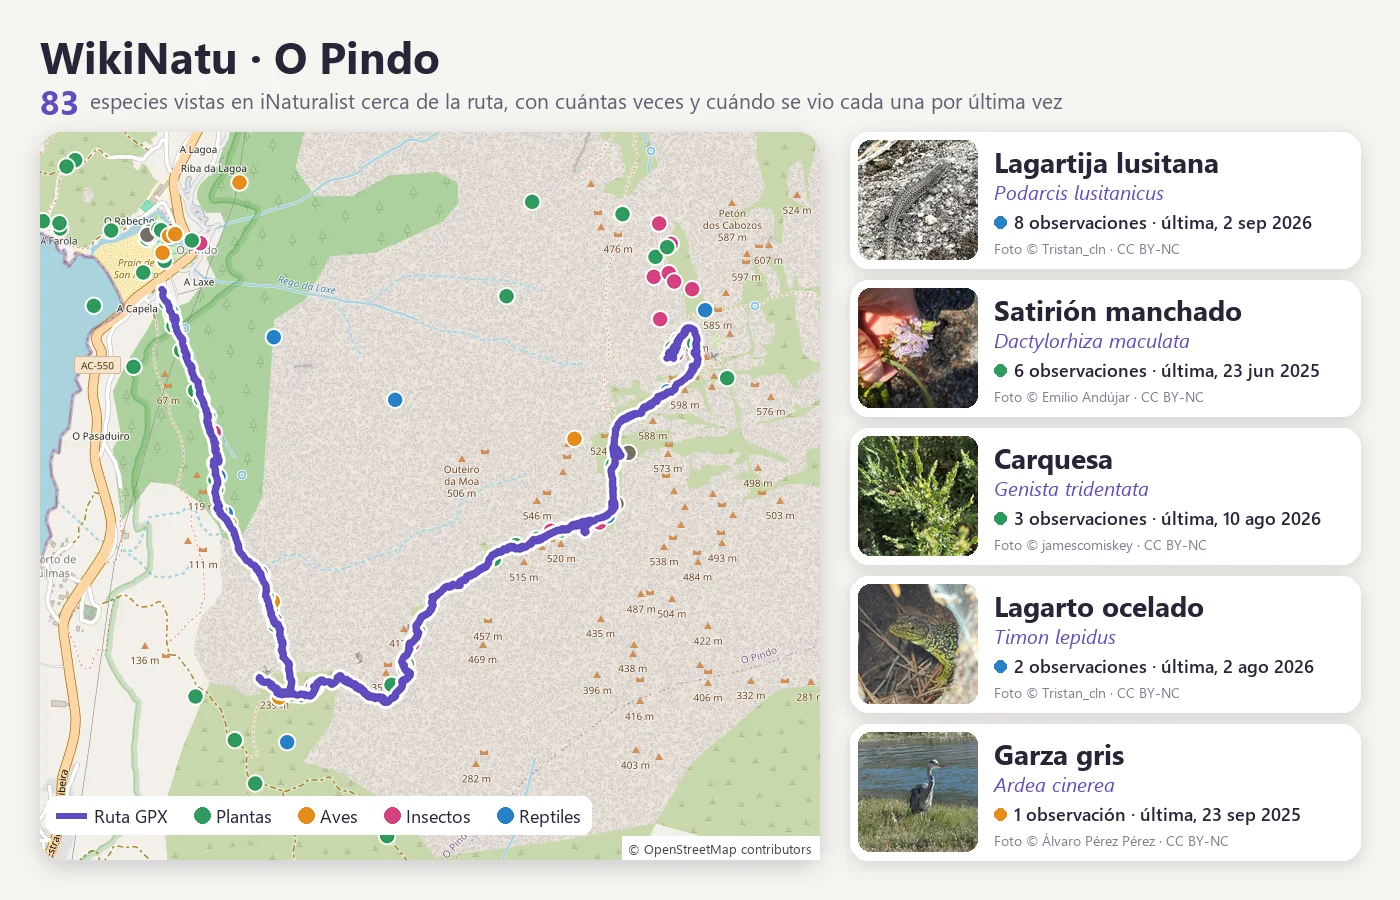
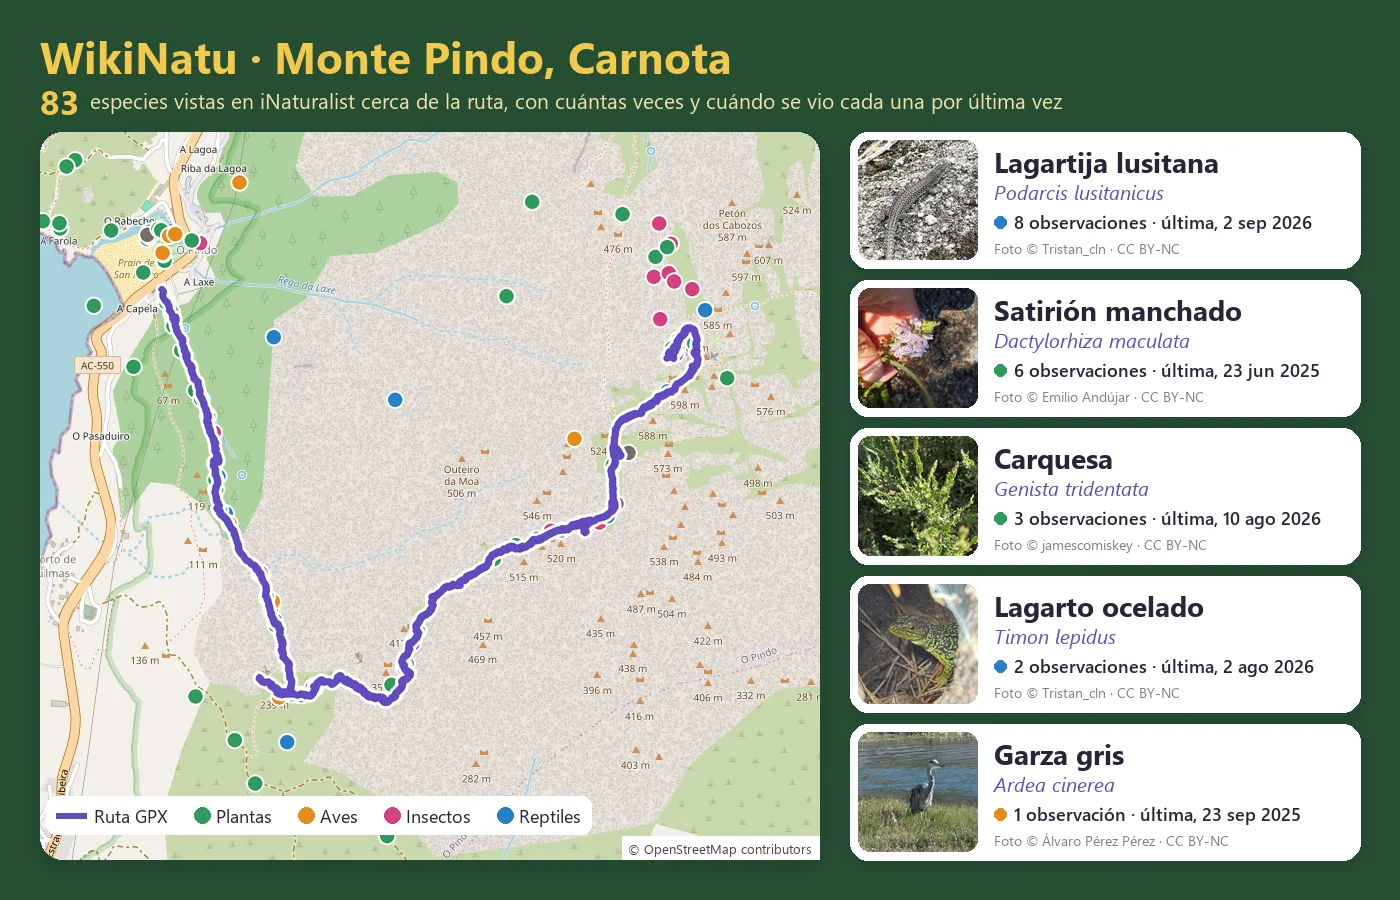
«Sobre mí»: títulos y frases de mapas y de la app de especies; WikiNatu en verde
Sanidad digital, «Primeros pasos en el mapa», mapas de lo que le rodeaba y de recuerdos
de viajes, la app sin nombre en el texto. Figura con fondo verde, letras amarillas y
Monte Pindo, Carnota.

Changed region(s): [[0.0, 0.0, 1.0, 1.0]]

diff --git a/src/i18n/ui.ts b/src/i18n/ui.ts
@@ -48,9 +48,9 @@ export const ui = {
       camino: [
         { etiqueta: 'Me presento', texto: 'Soy Miguel [[retrato]]. Trabajo en la vigilancia y supervisión de modelos de inteligencia artificial, desde Santiago de Compostela.' },
         { etiqueta: 'Entre la montaña y el ordenador', texto: 'Mis intereses siempre han estado muy ligados a la naturaleza, y siempre he disfrutado aprendiendo sobre ella [[mariposa]]. Eso me llevó a estudiar Biología, y fue ahí donde de verdad me enamoré de ese mundo, de las moléculas a los ecosistemas. Seguí formándome en bioingeniería, y ahí me di cuenta de que mi sitio no estaba en el laboratorio, sino repartido entre la montaña y el ordenador.' },
-        { etiqueta: 'Entender la sanidad desde la biología', texto: 'Con ese primer contacto con la informática seguí formándome en bioinformática y bioestadística, online y compaginándolo con mi entrada en el mundo laboral. Crecí y aprendí mucho trabajando en proyectos de datos clínicos, y fui llevando a ese trabajo lo que traía de la biología. Así llegué a los datos espaciales y a One Health, que entiende la salud de las personas unida a la de los animales y a la del entorno, y ahí empezaron a tomar forma los proyectos que vinieron después.' },
-        { etiqueta: 'Primeros proyectos propios', texto: 'En los años siguientes fui dando forma a esas ideas, a la vez que avanzaba en el trabajo y aprendía nuevas herramientas y formas de llevar proyectos. Empecé a analizar datos de ciudades y a aprender GIS y tecnologías geoespaciales. Así salieron mis primeros mapas [[ria]], y también proyectos en los que convertía recuerdos de mis viajes [[paisaje]] en mapas [[lindis]].' },
-        { etiqueta: 'Una puerta nueva', texto: 'Con la llegada de los modelos de IA cambió lo que podía hacer por mi cuenta. Me interesó desde el primer momento, porque ideas que antes se quedaban en el cajón, por falta de tiempo o porque no sabía por dónde empezar, pasaron a estar a mi alcance. De ahí salieron [las exploraciones con datos abiertos](#exploraciones) de esta página, y también WikiNatu, una aplicación que cruza mis rutas de senderismo con las observaciones de iNaturalist para saber qué especies me puedo encontrar [[wikinatu]].' },
+        { etiqueta: 'Entender la sanidad digital desde la biología', texto: 'Con ese primer contacto con la informática seguí formándome en bioinformática y bioestadística, online y compaginándolo con mi entrada en el mundo laboral. Crecí y aprendí mucho trabajando en proyectos de datos clínicos, y fui llevando a ese trabajo lo que traía de la biología. Así llegué a los datos espaciales y a One Health, que entiende la salud de las personas unida a la de los animales y a la del entorno, y ahí empezaron a tomar forma los proyectos que vinieron después.' },
+        { etiqueta: 'Primeros pasos en el mapa', texto: 'En los años siguientes fui dando forma a esas ideas, a la vez que avanzaba en el trabajo y aprendía nuevas herramientas y formas de llevar proyectos. Empecé a analizar datos de ciudades y a aprender GIS y tecnologías geoespaciales. Mis primeros proyectos fueron mapas de lo que me rodeaba [[ria]], o de los recuerdos de mis viajes [[paisaje]] vistos desde otros ángulos [[lindis]].' },
+        { etiqueta: 'Una puerta nueva', texto: 'Con la llegada de los modelos de IA cambió lo que podía hacer por mi cuenta. Me interesó desde el primer momento, porque ideas que antes se quedaban en el cajón, por falta de tiempo o porque no sabía por dónde empezar, pasaron a estar a mi alcance. De ahí salieron [las exploraciones con datos abiertos](#exploraciones) de esta página, y también proyectos como una aplicación que cruza mis rutas de senderismo con las observaciones de iNaturalist para saber qué especies me puedo encontrar [[wikinatu]].' },
         { etiqueta: 'IA al servicio de las personas', texto: 'En todo lo que hago busco que mi trabajo tenga impacto y aporte un beneficio. Con la IA, la gobernanza es la forma de conseguirlo, que esta herramienta siga al servicio de la gente y no se use de forma equivocada. Valido y vigilo modelos de IA en sanidad, en distintos sistemas y organizaciones, y me encargo de conocer el contexto de cada modelo y a las personas que lo van a usar, para diseñar la estrategia de gobernanza que mejor le encaja. Ahí vi un hueco que el mercado no cubría, medir la capa humana. Un modelo no es un sistema aislado, lo usa una persona y cambia su forma de trabajar y de decidir. Para que la gobernanza sea completa también hay que medir esa interacción entre el usuario y el modelo. De esa idea salió [Vigía](#herramientas).' },
         { etiqueta: 'Hablemos', texto: 'A día de hoy sigo saliendo a la montaña [[montana]] y aprendiendo y creando proyectos con estas herramientas. Si te interesa algo de lo que cuento aquí, escríbeme por [LinkedIn](https://www.linkedin.com/in/miguel-ferreiro-garcia) o por [correo](correo:) y estaré encantado de conectar.' },
       ],
@@ -58,7 +58,7 @@ export const ui = {
         retrato: { src: '/sobre-mi/retrato.webp', alt: 'Retrato de Miguel Ferreiro', pos: '50% 18%' },
         mariposa: { src: '/sobre-mi/mariposa.webp', alt: 'Mariposa chupaleches posada en un tojo' },
         proreg: { src: '/sobre-mi/proreg.webp', alt: 'Web pública de ProReg, el registro de cáncer de próstata de la EAU' },
-        wikinatu: { src: '/sobre-mi/wikinatu.webp', alt: 'WikiNatu en la ruta de O Pindo: 83 especies de iNaturalist avistadas cerca de la ruta, y cinco fichas con cuántas veces se vio cada una y cuándo por última vez' },
+        wikinatu: { src: '/sobre-mi/wikinatu.webp', alt: 'WikiNatu en la ruta del monte Pindo, en Carnota: 83 especies de iNaturalist avistadas cerca de la ruta, y cinco fichas con cuántas veces se vio cada una y cuándo por última vez' },
         montana: { src: '/sobre-mi/montana.webp', alt: 'Miguel en un valle nevado de montaña' },
         paisaje: { src: '/sobre-mi/paisaje.webp', alt: 'Valle con un río y montañas nevadas' },
         ria: { src: '/sobre-mi/mapa-ria.webp', alt: 'Mapa de relieve de una ría gallega sobre una carta náutica antigua' },
@@ -118,9 +118,9 @@ export const ui = {
       camino: [
         { etiqueta: 'Introducing myself', texto: 'I am Miguel [[retrato]]. I work on monitoring and overseeing artificial intelligence models, from Santiago de Compostela, Spain.' },
         { etiqueta: 'Between the mountains and the computer', texto: 'My interests have always been closely tied to nature, and I have always enjoyed learning about it [[mariposa]]. That led me to study Biology, and that is where I truly fell in love with that world, from molecules to ecosystems. I went on to study bioengineering, and there I realised my place was not in the lab, but split between the mountains and the computer.' },
-        { etiqueta: 'Understanding healthcare through biology', texto: 'With that first contact with computing I kept studying bioinformatics and biostatistics, online and alongside my first steps into the working world. I grew and learned a lot working on clinical data projects, and I kept bringing what I knew from biology into that work. That is how I came to spatial data and One Health, which sees human health as tied to the health of animals and the environment, and that is where the projects that came later started to take shape.' },
-        { etiqueta: 'First projects of my own', texto: 'Over the next years I gave shape to those ideas, while I moved forward at work and learned new tools and ways of running projects. I started analysing data about cities and learning GIS and geospatial technologies. That gave me my first maps [[ria]], and also projects in which I turned memories of my travels [[paisaje]] into maps [[lindis]].' },
-        { etiqueta: 'A new door', texto: 'When AI models arrived, what I could do on my own changed. It interested me from the first moment, because ideas that used to stay in a drawer, for lack of time or because I did not know where to start, came within reach. That led to [the open-data explorations](#explorations) on this page, and also to WikiNatu, an app that crosses my hiking routes with iNaturalist observations to know which species I can find [[wikinatu]].' },
+        { etiqueta: 'Understanding digital health through biology', texto: 'With that first contact with computing I kept studying bioinformatics and biostatistics, online and alongside my first steps into the working world. I grew and learned a lot working on clinical data projects, and I kept bringing what I knew from biology into that work. That is how I came to spatial data and One Health, which sees human health as tied to the health of animals and the environment, and that is where the projects that came later started to take shape.' },
+        { etiqueta: 'First steps on the map', texto: 'Over the next years I gave shape to those ideas, while I moved forward at work and learned new tools and ways of running projects. I started analysing data about cities and learning GIS and geospatial technologies. My first projects were maps of what was around me [[ria]], or of memories of my travels [[paisaje]] seen from other angles [[lindis]].' },
+        { etiqueta: 'A new door', texto: 'When AI models arrived, what I could do on my own changed. It interested me from the first moment, because ideas that used to stay in a drawer, for lack of time or because I did not know where to start, came within reach. That led to [the open-data explorations](#explorations) on this page, and also to projects such as an app that crosses my hiking routes with iNaturalist observations to know which species I can find [[wikinatu]].' },
         { etiqueta: 'AI at the service of people', texto: 'In everything I do, I want my work to have an impact and bring some benefit. With AI, governance is how I get there, keeping this tool at the service of people and not misused. I validate and monitor AI models in healthcare, across different systems and organisations, and I take care of understanding each model’s context and the people who will use it, to design the governance strategy that suits it best. That is where I saw a gap the market was not covering, measuring the human layer. A model is not an isolated system, a person uses it and it changes how that person works and decides. For governance to be complete, the interaction between the user and the model has to be measured too. That idea gave rise to [Vigía](#tools).' },
         { etiqueta: 'Let’s talk', texto: 'Today I still go to the mountains [[montana]] and keep learning and building projects with these tools. If anything here interests you, write to me on [LinkedIn](https://www.linkedin.com/in/miguel-ferreiro-garcia) or by [email](correo:), and I will be happy to connect.' },
       ],
@@ -128,7 +128,7 @@ export const ui = {
         retrato: { src: '/sobre-mi/retrato.webp', alt: 'Portrait of Miguel Ferreiro', pos: '50% 18%' },
         mariposa: { src: '/sobre-mi/mariposa.webp', alt: 'Scarce swallowtail butterfly on gorse' },
         proreg: { src: '/sobre-mi/proreg.webp', alt: 'Public website of ProReg, the EAU prostate cancer registry' },
-        wikinatu: { src: '/sobre-mi/wikinatu.webp', alt: 'WikiNatu on the O Pindo route: 83 iNaturalist species seen near the route, and five species cards with how many times each was seen and when it was last seen' },
+        wikinatu: { src: '/sobre-mi/wikinatu.webp', alt: 'WikiNatu on the Monte Pindo route, in Carnota: 83 iNaturalist species seen near the route, and five species cards with how many times each was seen and when it was last seen' },
         montana: { src: '/sobre-mi/montana.webp', alt: 'Miguel in a snowy mountain valley' },
         paisaje: { src: '/sobre-mi/paisaje.webp', alt: 'Valley with a river and snowy mountains' },
         ria: { src: '/sobre-mi/mapa-ria.webp', alt: 'Relief map of a Galician estuary over an old nautical chart' },
